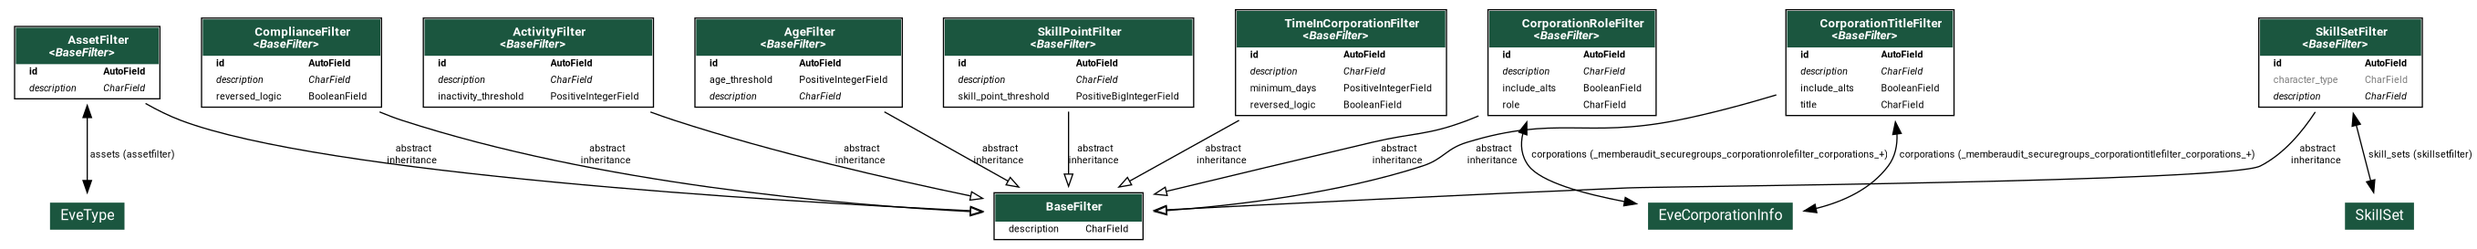
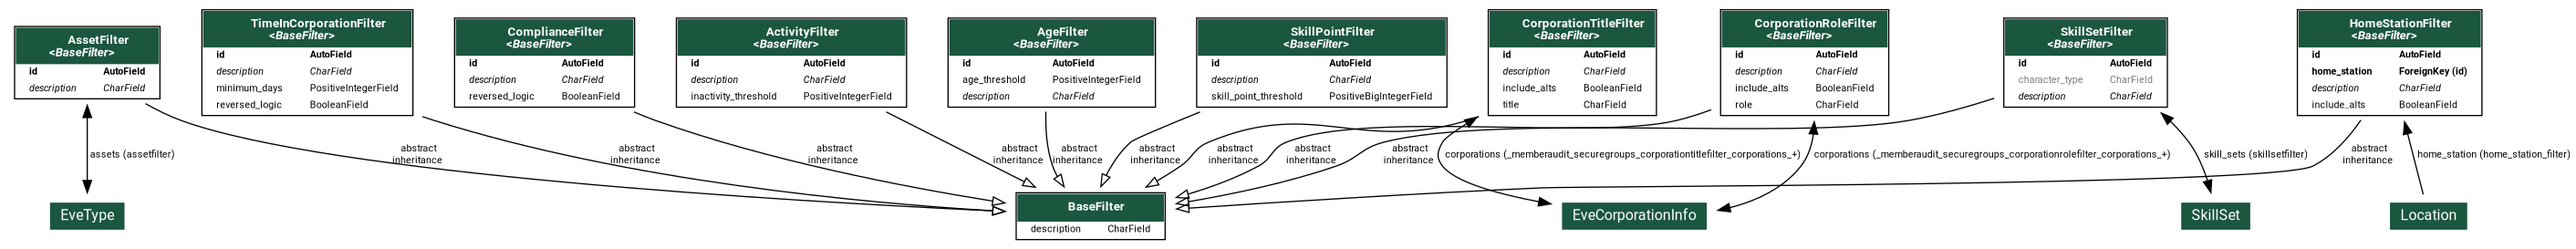
[RELEASE] v1.6.0
## [1.6.0] - 2025-08-05

### Added

- Home Station (Death Clone) smart filter

### Changed

- Translations updated

diff --git a/memberaudit_securegroups/__init__.py b/memberaudit_securegroups/__init__.py
@@ -5,5 +5,5 @@ Init module
 # Django
 from django.utils.translation import gettext_lazy as _
 
-__version__ = "1.5.2"
+__version__ = "1.6.0"
 __title__ = _("Member Audit Secure Groups")

diff --git a/CHANGELOG.md b/CHANGELOG.md
@@ -35,9 +35,15 @@ Section Order:
 ### Security
 -->
 
+## [1.6.0] - 2025-08-05
+
 ### Added
 
 - Home Station (Death Clone) smart filter
+
+### Changed
+
+- Translations updated
 
 ## [1.5.2] - 2025-06-03
 
